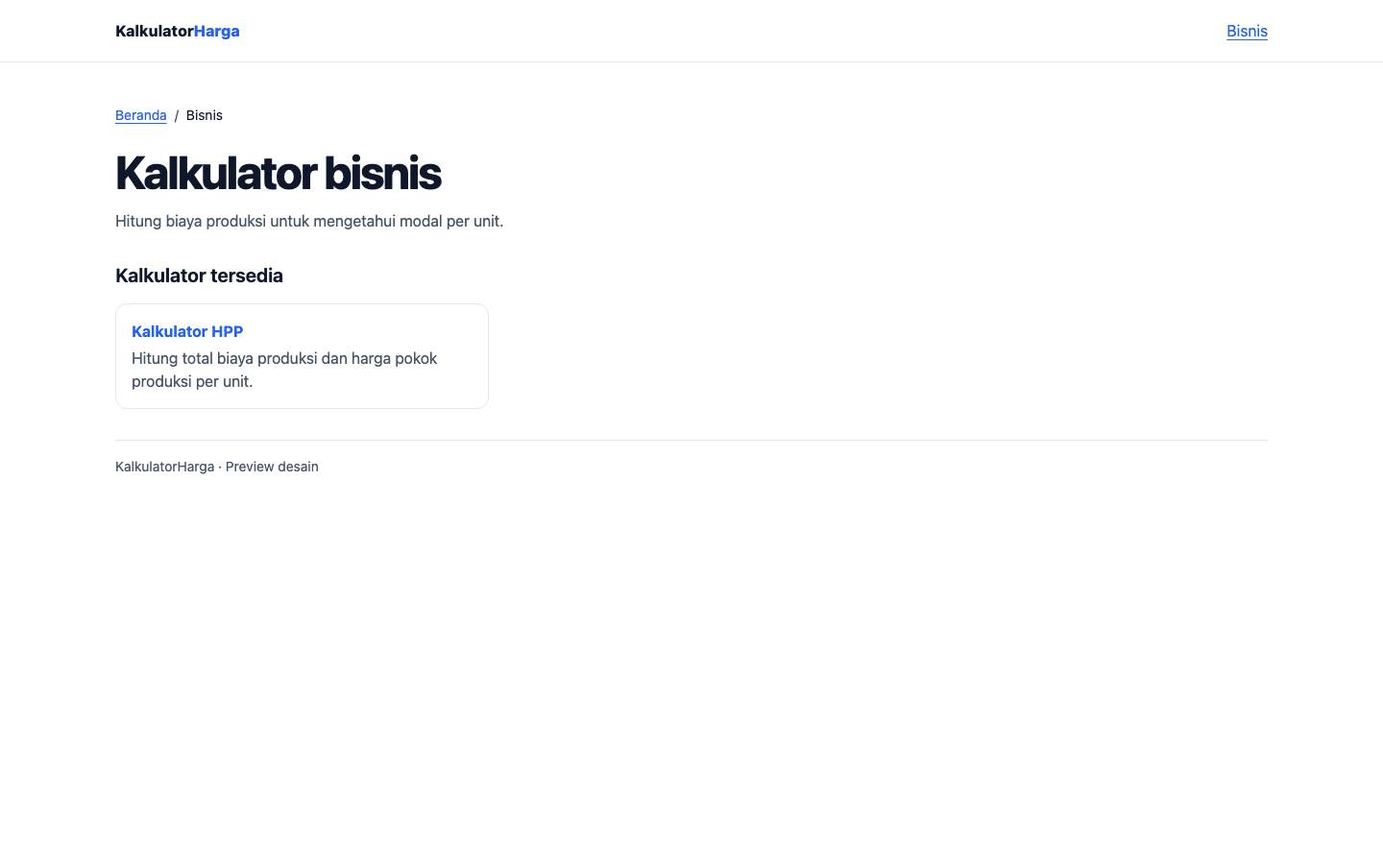
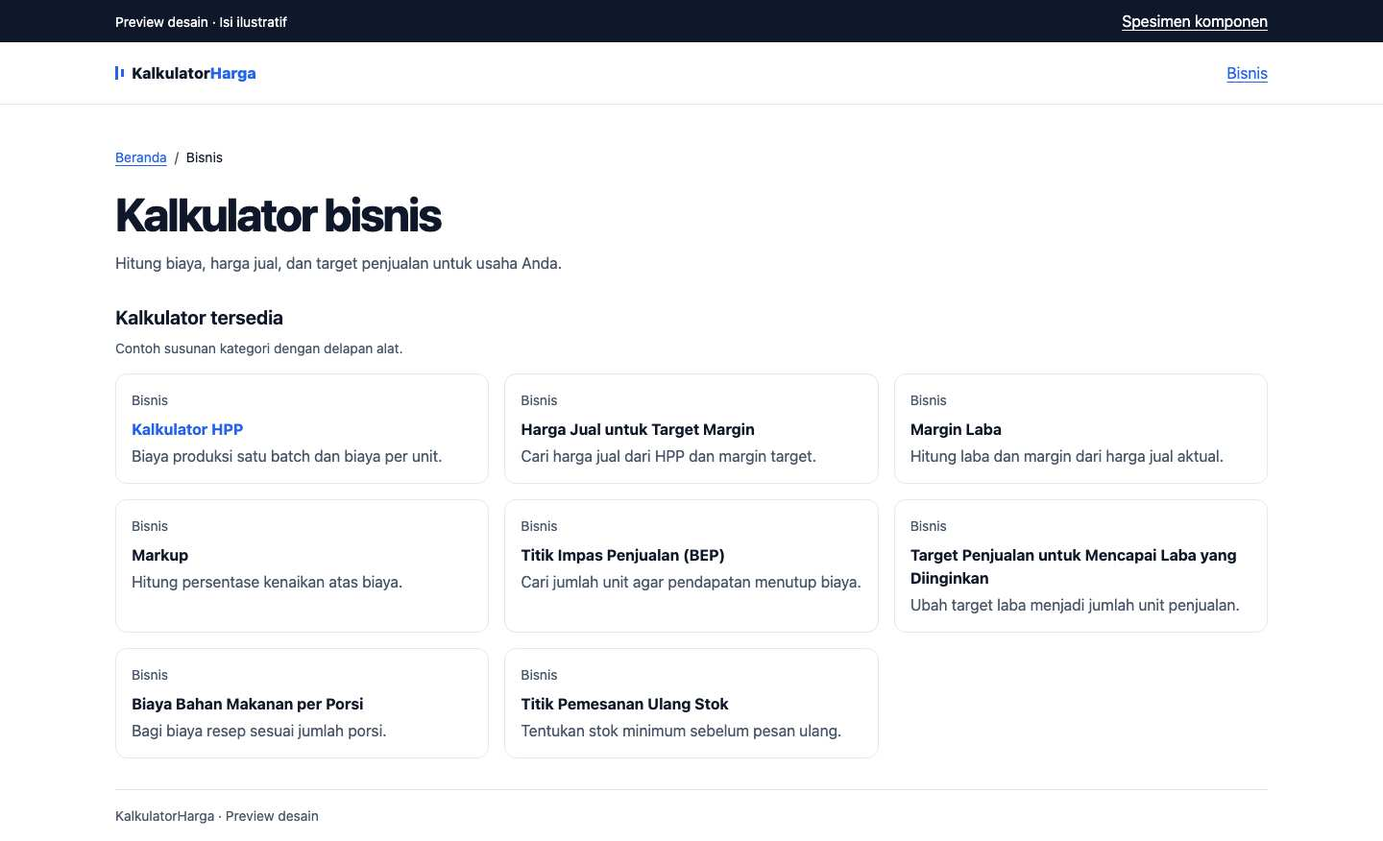
Expand Phase A catalog and component previews

diff --git a/docs/design-previews/preview.html b/docs/design-previews/preview.html
@@ -111,12 +111,51 @@ button:disabled { background: var(--surface-disabled); color: var(--text-seconda
   .calculator { grid-template-columns: minmax(0, 3fr) minmax(0, 2fr); }
 }
 @media (min-width: 90rem) { .calculator { gap: var(--space-8); } }
+.preview-bar { background: var(--text-primary); color: var(--surface-page); }
+.preview-bar .wrap { display: flex; align-items: center; justify-content: space-between; flex-wrap: wrap; column-gap: var(--space-4); }
+.preview-bar small { font-size: .875rem; padding-block: var(--space-2); }
+.preview-bar a { color: inherit; display: inline-flex; align-items: center; min-height: var(--target-min); }
+.identity { display: inline-grid; grid-template-columns: repeat(2, 3px); gap: 3px; align-items: center; margin-right: 8px; vertical-align: middle; }
+.identity::before, .identity::after { content: ''; height: 14px; background: var(--action-primary); }
+.identity::after { height: 8px; }
+.eyebrow { color: var(--action-hover); font: 700 var(--text-small) var(--font-ui); margin-bottom: var(--space-2); }
+.category-links, .state-links { display: flex; flex-wrap: wrap; gap: var(--space-2) var(--space-4); margin-top: var(--space-2); }
+.state-links a { display: inline-flex; align-items: center; min-height: var(--target-min); }
+.state-links [aria-current] { font-weight: 750; color: var(--text-primary); }
+.listing .card { height: 100%; }
+.card strong { display: block; overflow-wrap: anywhere; }
+.card .card-category { color: var(--text-secondary); font: var(--text-small) var(--font-ui); margin: 0 0 var(--space-2); }
+.fixture-card { background: var(--surface-page); }
+.empty-search { margin-top: var(--space-4); padding: var(--space-4); border: 1px solid var(--border-subtle); border-radius: var(--radius-panel); }
+.empty-search p { margin-block: var(--space-2); }
+.result .primary { border-inline-start: 3px solid var(--action-primary); padding-inline-start: var(--space-3); }
+.assumptions { color: var(--text-secondary); margin-top: var(--space-4); font: var(--text-small) var(--font-ui); }
+.status { margin-top: var(--space-3); padding: var(--space-2) var(--space-3); border-radius: var(--radius-control); }
+.status-invalid { color: var(--text-error); background: var(--surface-error); }
+.status-success { color: var(--text-success); background: var(--surface-success); }
+.secondary-button { background: var(--surface-page); color: var(--action-hover); border: 1px solid var(--border-control); }
+.secondary-button:hover, .secondary-button:active { background: var(--surface-subtle); }
+.text-button { background: transparent; color: var(--action-hover); text-decoration: underline; }
+.text-button:hover, .text-button:active { background: var(--surface-subtle); }
+.specimen-grid { display: grid; gap: var(--space-4); margin-top: var(--space-6); }
+.specimen-grid .panel > * + * { margin-top: var(--space-3); }
+.specimen-grid .panel button { width: auto; }
+.specimen-grid .panel > code { display: block; overflow-wrap: anywhere; color: var(--text-secondary); }
+.swatches { display: flex; flex-wrap: wrap; gap: var(--space-2); }
+.swatch { padding: var(--space-2); border: 1px solid var(--border-subtle); border-radius: var(--radius-control); }
+.swatch.subtle { background: var(--surface-subtle); }
+.swatch.action { background: var(--action-primary); color: var(--text-on-action); }
+.focus-sample { outline: 3px solid var(--focus-ring); outline-offset: var(--focus-offset); }
+@media (min-width: 48rem) { .specimen-grid { grid-template-columns: repeat(2, minmax(0, 1fr)); } }
 </style>
 <body>
 <a class="skip" href="#konten">Langsung ke konten</a>
+<aside class="preview-bar" aria-label="Keterangan preview">
+  <div class="wrap"><small>Preview desain · Isi ilustratif</small><a href="?page=specimens">Spesimen komponen</a></div>
+</aside>
 <header class="site-header">
   <nav class="wrap" aria-label="Navigasi utama">
-    <a class="brand" href="?page=home">Kalkulator<span>Harga</span></a>
+    <a class="brand" href="?page=home"><i class="identity" aria-hidden="true"></i>Kalkulator<span>Harga</span></a>
     <a href="?page=category">Bisnis</a>
   </nav>
 </header>
@@ -124,8 +163,8 @@ button:disabled { background: var(--surface-disabled); color: var(--text-seconda
   <div data-page="home">
     <section class="hero">
       <div class="wrap">
-        <h1>Direktori kalkulator</h1>
-        <p class="intro">Temukan alat hitung untuk kebutuhan bisnis Anda.</p>
+        <p class="eyebrow">Direktori</p><h1>Temukan kalkulator yang Anda perlukan</h1>
+        <p class="intro">Cari berdasarkan kebutuhan, misalnya biaya produksi, cicilan, atau konversi satuan.</p>
         <div class="search" role="search">
           <label for="query">Cari kalkulator</label>
           <input id="query" type="search" placeholder="Contoh: biaya produksi">
@@ -133,44 +172,68 @@ button:disabled { background: var(--surface-disabled); color: var(--text-seconda
       </div>
     </section>
     <div class="wrap content">
-      <h2>Kalkulator tersedia</h2>
-      <ul class="listing"><li><a class="card" href="?page=hpp"><strong>Kalkulator HPP</strong><span>Hitung total biaya produksi dan harga pokok produksi per unit.</span></a></li></ul>
       <section class="categories">
         <h2>Jelajahi kategori</h2>
-        <a class="category-link" href="?page=category">Bisnis</a>
+        <nav class="category-links" aria-label="Kategori pada preview">
+          <a class="category-link" href="?page=category">Bisnis</a>
+          <a class="category-link" href="?page=home&amp;category=Marketplace">Marketplace</a>
+          <a class="category-link" href="?page=home&amp;category=Keuangan">Keuangan</a>
+          <a class="category-link" href="?page=home&amp;category=Sehari-hari">Sehari-hari</a>
+        </nav>
+      </section>
+      <section class="tools">
+        <h2 id="discovery-title">Pilihan kalkulator</h2>
+        <p class="hint" id="search-status" role="status"></p>
+        <ul class="listing" id="home-list"></ul>
+        <div class="empty-search" id="search-empty" hidden>
+          <strong>Tidak ada kalkulator yang cocok.</strong>
+          <p>Coba kata kunci seperti HPP, cicilan, atau diskon.</p>
+          <button type="button" class="secondary-button" id="clear-query">Hapus pencarian</button>
+        </div>
+        <a class="category-link" href="?page=home&amp;state=zero">Lihat contoh hasil kosong</a>
       </section>
     </div>
   </div>
   <div class="wrap content" data-page="category" hidden>
     <nav class="crumb" aria-label="Jejak navigasi"><a href="?page=home">Beranda</a><span aria-current="page">Bisnis</span></nav>
     <h1>Kalkulator bisnis</h1>
-    <p class="intro">Hitung biaya produksi untuk mengetahui modal per unit.</p>
+    <p class="intro">Hitung biaya, harga jual, dan target penjualan untuk usaha Anda.</p>
     <section class="tools">
       <h2>Kalkulator tersedia</h2>
-      <ul class="listing"><li><a class="card" href="?page=hpp"><strong>Kalkulator HPP</strong><span>Hitung total biaya produksi dan harga pokok produksi per unit.</span></a></li></ul>
+      <p class="hint">Contoh susunan kategori dengan delapan alat.</p>
+      <ul class="listing" id="business-list"></ul>
     </section>
   </div>
   <div class="wrap content" data-page="hpp" hidden>
     <nav class="crumb" aria-label="Jejak navigasi"><a href="?page=home">Beranda</a><a href="?page=category">Bisnis</a><span aria-current="page">Kalkulator HPP</span></nav>
     <h1>Kalkulator HPP</h1>
     <p class="intro">Hitung total biaya produksi dan harga pokok produksi per unit.</p>
+    <nav class="state-links" aria-label="State contoh HPP">
+      <a href="?page=hpp&amp;state=empty">Awal</a>
+      <a href="?page=hpp&amp;state=valid">Hasil</a>
+      <a href="?page=hpp&amp;state=invalid">Kesalahan</a>
+      <a href="?page=hpp&amp;state=pending">Menunggu</a>
+    </nav>
     <div class="calculator">
       <section class="panel" aria-labelledby="form-heading">
         <h2 id="form-heading">Biaya satu kali produksi</h2>
+        <p class="status status-invalid" id="error-summary" role="alert" hidden><strong>Periksa satu kolom.</strong> <a href="#units">Jumlah unit</a> harus lebih dari nol.</p>
         <p class="hint" id="format">Masukkan rupiah bulat tanpa titik atau koma. Isi 0 jika biaya tidak ada.</p>
         <div class="field"><label for="materials">Bahan baku (Rp)</label><input id="materials" inputmode="numeric" aria-describedby="format" value="120000"></div>
         <div class="field"><label for="labor">Tenaga kerja langsung (Rp)</label><input id="labor" inputmode="numeric" aria-describedby="format" value="60000"></div>
         <div class="field"><label for="overhead">Overhead produksi (Rp)</label><input id="overhead" inputmode="numeric" aria-describedby="format" value="20000"></div>
         <div class="field"><label for="units">Jumlah unit</label><input id="units" inputmode="numeric" value="50"><p id="units-error" class="error" hidden>Jumlah unit harus lebih dari nol.</p></div>
-        <button type="button">Hitung HPP</button>
+        <button type="button" id="calculate-preview" aria-describedby="preview-form-note">Hitung HPP</button>
+        <p class="hint" id="preview-form-note">Pilih state di atas untuk meninjau tampilan.</p>
       </section>
       <section class="panel result" aria-labelledby="result-heading">
         <h2 id="result-heading">Hasil perhitungan</h2>
         <dl id="result-values">
-          <div><dt>HPP per unit</dt><dd>Rp 4.000</dd></div>
+          <div class="primary"><dt>HPP per unit</dt><dd>Rp 4.000</dd></div>
           <div class="secondary"><dt>Total biaya produksi</dt><dd>Rp 200.000</dd></div>
         </dl>
-        <p id="result-message" class="hint" hidden></p>
+        <p id="result-message" class="hint" role="status" hidden></p>
+        <p class="assumptions" id="assumptions">Contoh untuk 50 unit sejenis dalam satu batch. HPP per unit dibulatkan ke rupiah terdekat.</p>
       </section>
     </div>
     <article class="method">
@@ -178,24 +241,143 @@ button:disabled { background: var(--surface-disabled); color: var(--text-seconda
       <p>Jumlahkan bahan baku, tenaga kerja langsung, dan overhead produksi. Bagi total biaya dengan jumlah unit yang selesai diproduksi.</p>
     </article>
   </div>
+  <div class="wrap content" data-page="specimens" hidden>
+    <p class="eyebrow">Sistem desain</p>
+    <h1>Spesimen komponen</h1>
+    <p class="intro">Perbandingan varian, state dan token pada ukuran yang sama.</p>
+    <div class="specimen-grid">
+      <section class="panel">
+        <h2>Tipografi dan permukaan</h2><code>--text-title · --text-body · --surface-subtle</code>
+        <p style="font-size:var(--text-title);font-weight:750;line-height:1.1">Hitung biaya produksi</p>
+        <p>Label ringkas dan angka dengan lebar digit tetap.</p>
+        <div class="swatches"><span class="swatch">Kanvas</span><span class="swatch subtle">Panel</span><span class="swatch action">Aksi</span></div>
+      </section>
+      <section class="panel">
+        <h2>Button</h2><code>--action-primary · --target-min · --focus-ring</code>
+        <div class="state-links"><button type="button">Utama</button><button type="button" class="secondary-button">Sekunder</button><button type="button" class="text-button">Teks</button></div>
+        <div class="state-links"><button type="button" class="focus-sample">Fokus</button><button type="button" disabled>Nonaktif</button><button type="button" disabled>Menunggu…</button></div>
+      </section>
+      <section class="panel">
+        <h2>Input dan CalculatorField</h2><code>--control-size · --border-control · --text-error</code>
+        <div><label for="spec-rp">Biaya bahan (Rp)</label><input id="spec-rp" value="120000" inputmode="numeric"></div>
+        <div><label for="spec-unit">Jumlah unit</label><input id="spec-unit" value="0" inputmode="numeric" aria-invalid="true" aria-describedby="spec-error"><p id="spec-error" class="error">Jumlah unit harus lebih dari nol.</p></div>
+        <div><label for="spec-disabled">Tarif referensi</label><input id="spec-disabled" value="Belum tersedia" disabled></div>
+      </section>
+      <section class="panel">
+        <h2>Search dan Card</h2><code>--radius-control · --radius-panel · --text-secondary</code>
+        <div><label for="spec-search">Cari kalkulator</label><input id="spec-search" value="hpp" type="search"></div>
+        <a class="card" href="?page=hpp"><strong>Kalkulator HPP</strong><span>Biaya produksi per unit</span></a>
+        <a class="card" href="?page=category"><strong>Bisnis</strong><span>Biaya, harga, dan penjualan</span></a>
+      </section>
+      <section class="panel">
+        <h2>CalculatorForm dan ResultPanel</h2><code>--text-result · --surface-success · --surface-error</code>
+        <p class="status status-invalid">Periksa jumlah unit sebelum menghitung.</p>
+        <div class="panel result"><p>Hasil awal</p><p class="hint">Isi biaya dan jumlah unit untuk melihat hasil.</p></div>
+        <div class="panel result"><p class="status status-success">Perhitungan selesai</p><dl><div class="primary"><dt>HPP per unit</dt><dd>Rp 4.000</dd></div></dl></div>
+        <p class="hint">Susun vertikal di bawah 768 px. Angka panjang dapat membungkus.</p>
+      </section>
+      <section class="panel">
+        <h2>Breadcrumb dan navigasi</h2><code>--target-min · --space-2 · --text-small</code>
+        <nav class="crumb" aria-label="Contoh jejak navigasi"><a href="?page=home">Beranda</a><a href="?page=category">Bisnis</a><span aria-current="page">Kalkulator HPP</span></nav>
+        <p class="hint">Tautan dan item aktif membungkus dalam urutan DOM.</p>
+        <nav class="category-links" aria-label="Contoh navigasi situs"><a class="category-link" href="?page=home">KalkulatorHarga</a><a class="category-link" href="?page=category" aria-current="page">Bisnis</a></nav>
+      </section>
+    </div>
+  </div>
 </main>
 <footer class="wrap site-footer">KalkulatorHarga · Preview desain</footer>
 <script>
 const params = new URLSearchParams(location.search)
-const page = ['home', 'category', 'hpp'].includes(params.get('page')) ? params.get('page') : 'home'
+const page = ['home', 'category', 'hpp', 'specimens'].includes(params.get('page')) ? params.get('page') : 'home'
 for (const section of document.querySelectorAll('[data-page]')) section.hidden = section.dataset.page !== page
 const state = params.get('state')
-if (page === 'hpp' && ['empty', 'invalid'].includes(state)) {
+const business = [
+  ['Kalkulator HPP', 'Biaya produksi satu batch dan biaya per unit.', 'Bisnis', 'hpp'],
+  ['Harga Jual untuk Target Margin', 'Cari harga jual dari HPP dan margin target.', 'Bisnis'],
+  ['Margin Laba', 'Hitung laba dan margin dari harga jual aktual.', 'Bisnis'],
+  ['Markup', 'Hitung persentase kenaikan atas biaya.', 'Bisnis'],
+  ['Titik Impas Penjualan (BEP)', 'Cari jumlah unit agar pendapatan menutup biaya.', 'Bisnis'],
+  ['Target Penjualan untuk Mencapai Laba yang Diinginkan', 'Ubah target laba menjadi jumlah unit penjualan.', 'Bisnis'],
+  ['Biaya Bahan Makanan per Porsi', 'Bagi biaya resep sesuai jumlah porsi.', 'Bisnis'],
+  ['Titik Pemesanan Ulang Stok', 'Tentukan stok minimum sebelum pesan ulang.', 'Bisnis'],
+]
+const discovery = [
+  ...business.slice(0, 5),
+  ['Biaya Admin TikTok Shop', 'Simulasikan potongan dan dana cair penjual.', 'Marketplace'],
+  ['Cicilan Anuitas', 'Perkirakan angsuran tetap dari pokok dan tenor.', 'Keuangan'],
+  ['Target Tabungan', 'Cari setoran bulanan untuk mencapai target.', 'Keuangan'],
+  ['Diskon Bertahap', 'Hitung harga akhir setelah beberapa potongan.', 'Sehari-hari'],
+  ['Konversi Satuan Panjang', 'Ubah ukuran dari satu satuan ke satuan lain.', 'Sehari-hari'],
+]
+function showCards(list, tools) {
+  list.replaceChildren(...tools.map(([title, description, category, link]) => {
+    const item = document.createElement('li')
+    const card = document.createElement(link ? 'a' : 'article')
+    card.className = 'card'
+    if (link) card.href = '?page=' + link
+    else card.classList.add('fixture-card')
+    for (const [tag, value, className] of [['span', category, 'card-category'], ['strong', title, ''], ['span', description, '']]) {
+      const element = document.createElement(tag)
+      element.textContent = value
+      element.className = className
+      card.append(element)
+    }
+    item.append(card)
+    return item
+  }))
+}
+if (page === 'home') {
+  const query = document.querySelector('#query')
+  const list = document.querySelector('#home-list')
+  const title = document.querySelector('#discovery-title')
+  const status = document.querySelector('#search-status')
+  const empty = document.querySelector('#search-empty')
+  function renderSearch() {
+    const value = query.value.trim().toLocaleLowerCase('id')
+    const matches = discovery.filter(tool => value.split(/\s+/).every(term => tool.slice(0, 3).join(' ').toLocaleLowerCase('id').includes(term)))
+    document.querySelector('.categories').hidden = Boolean(value)
+    title.textContent = value ? 'Hasil pencarian' : 'Pilihan kalkulator'
+    status.textContent = value ? matches.length + ' hasil untuk “' + query.value.trim() + '”' : 'Contoh pilihan dari beberapa kategori.'
+    empty.hidden = matches.length > 0
+    list.hidden = matches.length === 0
+    showCards(list, matches)
+  }
+  query.value = state === 'zero' ? 'jadwal kereta' : params.get('category') || ''
+  query.addEventListener('input', renderSearch)
+  document.querySelector('#clear-query').addEventListener('click', () => {
+    query.value = ''
+    renderSearch()
+    query.focus()
+  })
+  renderSearch()
+}
+if (page === 'category') showCards(document.querySelector('#business-list'), business)
+if (page === 'hpp') {
+  const selected = ['empty', 'invalid', 'pending'].includes(state) ? state : 'valid'
+  document.querySelector('.state-links a[href$="state=' + selected + '"]').setAttribute('aria-current', 'true')
+}
+if (page === 'hpp' && ['empty', 'invalid', 'pending'].includes(state)) {
   document.querySelector('#result-values').hidden = true
   const message = document.querySelector('#result-message')
   message.hidden = false
-  message.textContent = state === 'invalid' ? 'Periksa jumlah unit sebelum menghitung.' : 'Isi biaya dan jumlah unit untuk melihat hasil.'
+  document.querySelector('#assumptions').hidden = true
+  message.textContent = {
+    invalid: 'Periksa jumlah unit sebelum menghitung.',
+    empty: 'Isi biaya dan jumlah unit untuk melihat hasil.',
+    pending: 'Perhitungan sedang diproses.',
+  }[state]
   const units = document.querySelector('#units')
   if (state === 'invalid') {
     units.value = '0'
     units.setAttribute('aria-invalid', 'true')
     units.setAttribute('aria-describedby', 'units-error')
     document.querySelector('#units-error').hidden = false
+    document.querySelector('#error-summary').hidden = false
+  } else if (state === 'pending') {
+    const button = document.querySelector('#calculate-preview')
+    button.disabled = true
+    button.textContent = 'Menghitung…'
+    document.querySelector('.result').setAttribute('aria-busy', 'true')
   } else {
     for (const input of document.querySelectorAll('[data-page="hpp"] input')) input.value = ''
   }

diff --git a/docs/DESIGN_SYSTEM.md b/docs/DESIGN_SYSTEM.md
@@ -2,11 +2,13 @@
 
 **Phase A · Usulan untuk persetujuan**
 
-Dokumen ini menetapkan aturan visual dan perilaku komponen untuk beranda, kategori, dan kalkulator. Preview memakai HPP sebagai contoh dari registry saat ini. Terapkan sistem ini pada aplikasi setelah persetujuan Phase A.
+Dokumen ini menetapkan aturan visual dan perilaku komponen untuk beranda, kategori, dan kalkulator. Preview memakai HPP untuk contoh kalkulator dan kartu ilustratif dari inventaris untuk menguji kepadatan direktori. Terapkan sistem ini pada aplikasi setelah persetujuan Phase A.
 
 ## Arah visual
 
-Gunakan komposisi lembar hitung dengan garis pemisah tipis, angka tabular, label yang mudah dipindai, dan latar putih. Biru menandai tautan, fokus, dan aksi utama. Hierarki berubah sesuai tugas: pencarian pada beranda, daftar pada kategori, dan angka hasil pada kalkulator. Gerak dibatasi pada umpan balik kontrol.
+Komposisi mengikuti lembar hitung. Gunakan garis pemisah tipis, angka tabular, label yang mudah dipindai, dan latar putih. Tanda dua batang dengan tinggi berbeda pada wordmark mengambil bentuk kolom nilai. Garis biru di samping hasil utama memakai motif yang sama untuk membantu mata menemukan angka akhir. Biru juga menandai tautan, fokus, dan aksi utama.
+
+Pita pencarian berlatar lembut menampung satu tugas utama di beranda. Kartu katalog menampilkan kategori, nama alat, dan tujuan dalam urutan tetap. Panel hasil memakai label kecil, angka besar, pemisah subtotal, dan catatan asumsi. Tipografi sistem dan bentuk CSS menjaga identitas tanpa font, ikon, atau gambar tambahan. Gerak dibatasi pada perubahan warna kontrol. Strip gelap “Preview desain” menandai fixture dan hanya ada pada dokumen preview.
 
 - 21st.dev menjadi referensi untuk anatomi input, tombol, dan kartu yang konsisten. [Katalog komponen](https://21st.dev/)
 - Mobbin menjadi referensi untuk alur pencarian, hasil kosong, dan pengisian form mobile. [Pustaka pola UX](https://mobbin.com/)
@@ -51,19 +53,19 @@ Format hasil dengan `Intl.NumberFormat('id-ID')` dan konfigurasi satuan yang eks
 
 | Komponen | Anatomi dan varian | Perilaku dan aksesibilitas |
 | --- | --- | --- |
-| Button | Label berupa tindakan, varian primary, secondary dan text. Ikon opsional dengan nama aksesibel bila tanpa teks. | Gunakan `button` untuk aksi dan tautan untuk navigasi. Default `type="button"`, submit eksplisit. Sediakan hover, active, fokus, disabled dan pending. Status pending menjaga lebar dan diumumkan saat perlu. |
+| Button | Label berupa tindakan, varian primary, secondary dan text. Ikon opsional dengan nama aksesibel bila tanpa teks. | Gunakan `button` untuk aksi dan tautan untuk navigasi. Default `type="button"`, submit eksplisit. Sediakan hover, active, fokus, disabled dan pending. Status pending menjaga lebar tombol dengan ruang untuk label terpanjang dan diumumkan saat perlu. |
 | Input | Label terlihat, kontrol 48 px, hint dan pesan kesalahan. Prefix atau suffix satuan bila diperlukan. | Kaitkan label dengan ID dan hint melalui `aria-describedby`. Terapkan `aria-invalid` setelah validasi gagal. Gunakan `inputmode` sesuai data dan pertahankan nilai yang diketik. |
 | Card | Varian tautan kalkulator, tautan kategori, dan panel konten. Judul, satu kalimat penjelas, metadata opsional. | Kartu tautan punya satu target fokus yang meliputi seluruh kartu. Jika ada tindakan tambahan, gunakan panel dengan tautan terpisah. Judul menjelaskan tujuan saat dibaca sendiri. |
 | Search | Region pencarian, label, kolom, tombol hapus bila ada kueri, dan daftar hasil. | Pencarian lokal memfilter daftar publik tanpa memindahkan fokus. Umumkan jumlah hasil lewat `role="status"`. Saat kosong, tampilkan contoh kueri dan aksi hapus. Tab menavigasi hasil sesuai urutan. |
-| CalculatorForm | Judul atau legend, pengantar singkat, daftar field, dan submit. | Pakai elemen form dan fieldset bila ada kelompok. Enter mengirim form. Saat gagal, umumkan ringkasan dan fokuskan field invalid pertama setelah pesan terpasang. Pertahankan input. |
+| CalculatorForm | Judul atau legend, pengantar singkat, daftar field, dan submit. | Pakai elemen form dan fieldset bila ada kelompok. Enter mengirim form. Saat submit gagal, pasang ringkasan dengan jumlah kolom bermasalah dan tautan ke setiap field. Setelah pesan terpasang, fokuskan field invalid pertama agar label dan pesan spesifik terbaca. Ringkasan tetap tersedia di atas form. Pertahankan input. |
 | CalculatorField | Input ditambah satuan, batas atau contoh format, dan pesan spesifik. | Tampilkan satuan pada label atau deskripsi. Gunakan hint dan pesan dengan ID berbeda agar keduanya tetap dapat dibaca. Kelompokkan input berulang dengan legend. |
-| ResultPanel | Judul, hasil utama, rincian berlabel dalam `dl`, dan asumsi singkat bila relevan. | Siapkan keadaan awal, sukses, dan input invalid. Umumkan hasil yang berubah melalui region `aria-live="polite"` yang sudah ada. Hapus hasil yang tidak lagi cocok ketika input berubah. |
+| ResultPanel | Judul, hasil utama, rincian berlabel dalam `dl`, dan asumsi singkat bila relevan. | Siapkan keadaan awal, sukses, dan input invalid. Untuk operasi asinkron, tandai panel dengan `aria-busy` dan tampilkan status pemrosesan di region hidup di luar area sibuk. Umumkan hasil yang berubah melalui region `aria-live="polite"` yang sudah ada. Hapus hasil yang tidak lagi cocok ketika input berubah. |
 | Breadcrumb | Navigasi berlabel “Jejak navigasi”, daftar tautan, item terakhir dengan `aria-current="page"`. | Pemisah dekoratif, pembungkusan baris alami, target tautan 44 px. Sembunyikan segmen kategori bila belum memiliki hub. |
 | Navigasi situs | Skip link, merek ke beranda, kategori dengan hub publik, dan penanda halaman aktif. | Tautan kategori tetap terlihat selama jumlahnya muat. Jika bertambah, gunakan disclosure dengan `aria-expanded`, Escape menutup dan fokus kembali ke pemicu. Hindari header lengket pada layar sempit. |
 
 ## Layout responsif
 
-Urutan DOM sama di semua ukuran. Beranda mengutamakan pencarian sebelum daftar dan kategori. Kategori mengutamakan breadcrumb, H1, deskripsi, lalu daftar. Detail mengutamakan breadcrumb, H1, deskripsi, form, hasil, metodologi, dan alat terkait bila tersedia.
+Urutan DOM sama di semua ukuran. Beranda mengutamakan pencarian. Tanpa kueri, navigasi kategori mendahului pilihan alat. Selama kueri aktif, hasil menggantikan blok penemuan dan kategori sementara disembunyikan. Kategori mengutamakan breadcrumb, H1, deskripsi, lalu daftar. Detail mengutamakan breadcrumb, H1, deskripsi, form, hasil, metodologi, dan alat terkait bila tersedia.
 
 | Lebar | Gutter dan batas | Beranda | Kategori | Detail |
 | --- | --- | --- | --- | --- |
@@ -74,6 +76,23 @@ Urutan DOM sama di semua ukuran. Beranda mengutamakan pencarian sebelum daftar d
 | 1440 px | Konten 1200 px terpusat | Pertahankan ukuran input, maksimal tiga kolom | Grid maksimal tiga kolom | Form dan hasil 3:2, gap 32 px, artikel hingga 65ch |
 
 Gunakan kolom eksplisit saat jumlah kartu cukup. Satu item tetap selebar satu kolom pada breakpoint grid. Kartu baru mengikuti urutan registry, tanpa kartu kosong. Pada zoom 200%, gunakan lebar CSS efektif untuk kembali ke layout yang muat. Hindari lebar minimum tetap pada anak grid dan beri area fokus ruang agar outline terlihat. Dengan keyboard virtual terbuka, field aktif dan tombol tetap bisa dicapai lewat gulir alami.
+
+### Penemuan dengan 100 alat
+
+- Beranda menampilkan kategori dengan hub publik dan 8–12 pilihan editorial dari registry terbit. Pilihan mencakup beberapa kebutuhan dan memakai urutan kurasi, tanpa label popularitas sebelum ada data.
+- Pencarian memakai seluruh katalog terbit, termasuk nama, kata kunci, kategori dan deskripsi. Urutkan kecocokan nama persis, kata kunci, lalu kecocokan deskripsi atau kategori. Pertahankan urutan stabil jika relevansi sama. Mulai dengan 12 hasil dan tampilkan aksi “Muat lebih banyak” jika diperlukan. Jumlah hasil menyebut total kecocokan. Kueri baru mengembalikan batas awal.
+- Hub kategori memuat daftar dari registry dalam urutan stabil. Tampilkan 12 alat per kelompok muat dan pertahankan navigasi ke hasil lanjutan. Judul panjang membungkus tanpa elipsis. Tinggi kartu mengikuti judul dan deskripsi terpanjang dalam baris. Baris terakhir hanya memuat kartu yang tersedia.
+- Preview beranda memakai sepuluh fixture dan hub Bisnis memakai delapan. Hanya kartu HPP yang menuju preview detail. Kartu lain berupa contoh konten tanpa tautan kalkulator. Pencarian preview memfilter fixture, termasuk contoh “jadwal kereta” dengan nol hasil dan aksi hapus yang mengembalikan fokus ke input.
+
+### State kalkulator
+
+| State | Form dan fokus | Hasil |
+| --- | --- | --- |
+| Awal | Kolom kosong dan hint terlihat. Tombol bisa dikirim untuk memicu validasi. | Instruksi singkat tanpa angka contoh. |
+| Valid | Nilai input dipertahankan, fokus tetap pada pemicu submit. | HPP per unit menjadi angka utama. Total, satuan dan asumsi batch tercantum. |
+| Invalid | Ringkasan menautkan kolom yang salah. Fokus pindah ke field invalid pertama. Kolom menyimpan nilai yang dimasukkan dan pesan spesifik. | Instruksi koreksi menggantikan hasil lama. |
+| Menunggu | Untuk operasi asinkron, cegah submit ganda. Pakai label “Menghitung…” dan pertahankan lebar. HPP sinkron tidak perlu melewati state ini. | Tampilkan pesan menunggu dan status sibuk. Umumkan hasil ketika siap. |
+| Nonaktif | Gunakan untuk aksi yang memang tidak tersedia. Beri alasan di teks yang tetap terbaca. | Hasil lama hanya tampil jika masih sesuai input. |
 
 ## CSS dan urutan implementasi setelah persetujuan
 
@@ -86,16 +105,24 @@ Pilih CSS biasa dengan custom properties dan gaya lokal komponen. Stack saat ini
 
 ## Preview dan persetujuan
 
-[Buka sumber preview statis](design-previews/preview.html). Unduh file dan buka di browser untuk mengganti tampilan dengan `?page=home`, `?page=category`, atau `?page=hpp`. Tambahkan `&state=empty` atau `&state=invalid` untuk meninjau keadaan awal dan kesalahan HPP. Contoh hasil HPP memakai data dari contoh yang terdokumentasi. Preview ini memvisualisasikan state desain dan tidak menjalankan pencarian atau engine.
+Unduh [preview statis](design-previews/preview.html), lalu buka di browser. Navigasi preview menghubungkan beranda, hub Bisnis, HPP, dan spesimen. Pilih state dari tautan di atas form HPP. Contoh hasil menggunakan angka dari metodologi HPP. Mesin hitung tidak dijalankan di preview.
 
 | Halaman | Desktop 1440 px | Mobile 375 px |
 | --- | --- | --- |
-| Beranda | [Preview](design-previews/home-1440.jpg) | [Preview](design-previews/home-375.jpg) |
-| Bisnis | [Preview](design-previews/category-1440.jpg) | [Preview](design-previews/category-375.jpg) |
-| HPP | [Preview](design-previews/hpp-1440.jpg) | [Preview](design-previews/hpp-375.jpg) |
+| Beranda dengan 10 kartu | [Preview](design-previews/home-1440.jpg) | [Preview](design-previews/home-375.jpg) |
+| Bisnis dengan 8 kartu | [Preview](design-previews/category-1440.jpg) | [Preview](design-previews/category-375.jpg) |
+| HPP dengan hasil | [Preview](design-previews/hpp-1440.jpg) | [Preview](design-previews/hpp-375.jpg) |
+| Spesimen komponen | [Preview](design-previews/specimens-1440.jpg) | [Preview](design-previews/specimens-375.jpg) |
+
+Tautan langsung dalam file HTML menggunakan `?page=home&state=zero`, `?page=hpp&state=empty`, `?page=hpp&state=invalid`, dan `?page=hpp&state=pending`. Spesimen memperlihatkan token pada panel dan mengubah dua kolom menjadi satu di bawah 768 px.
 
 - [ ] Setujui palet, tipografi, skala jarak, dan penekanan hasil.
-- [ ] Setujui kontrak komponen dan urutan fokus serta pesan validasi.
+- [ ] Setujui kepadatan katalog, prioritas pencarian, dan contoh hasil kosong.
+- [ ] Setujui spesimen, state kalkulator, urutan fokus, dan pesan validasi.
 - [ ] Setujui susunan tiga halaman pada 320, 375, 768, 1024, dan 1440 px.
 - [ ] Setujui CSS biasa dan urutan migrasi selector.
 - [ ] Beri persetujuan eksplisit sebelum membuka Phase B.
+
+### QA revisi Phase A
+
+Chromium merender keempat preview pada 320, 375, 768, 1024, dan 1440 px. Pemeriksaan mencakup overflow horizontal, fokus skip link, posisi panel hasil, jumlah fixture, hasil kosong dan pemulihan fokus saat kueri dihapus. State HPP awal, invalid, dan menunggu diperiksa pada 320 px. Pasangan warna teks, kontrol, dan status memenuhi ambang kontras pada sepuluh kombinasi yang diuji. Screenshot 375 dan 1440 px merekam tampilan yang sama dengan sumber HTML.
